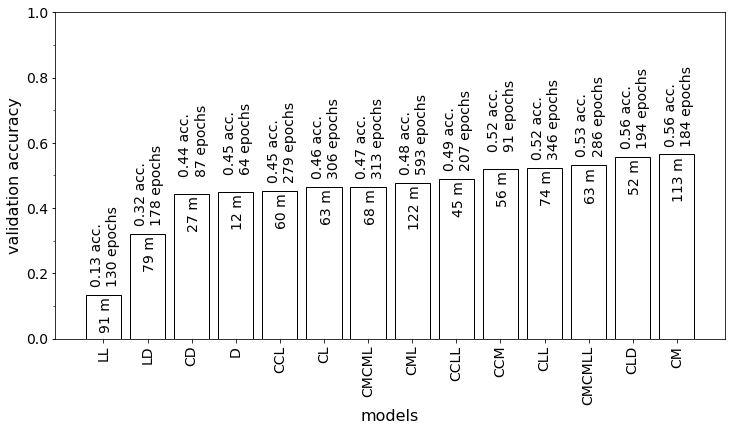
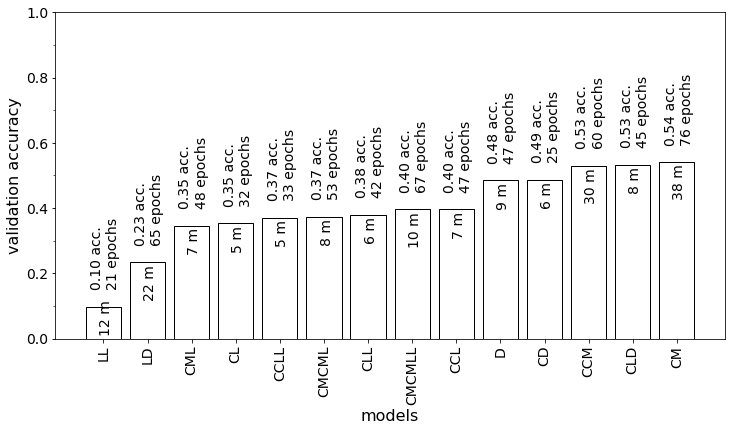
Updates from Overleaf

diff --git a/content/4.0.1-researchonmodels.tex b/content/4.0.1-researchonmodels.tex
@@ -13,7 +13,7 @@ This contrasts with the sampling technique applied in other works, where all the
 
 \levelC{Inputs}
 %one-hot
-The input features of the network for each instance is a 512x256 matrix representing only one block of 512 bytes of a random file of the dataset. Each of the 512 bytes is one-hot encoded, meaning that its value is converted into a vector with 256 elements, with only one of them set to 1, corresponding to the value of the byte, while the others are set to zero. A batch size of 100 was used, with 30 steps per epoch. \todo{remake with 28 after excluding text and unk?}
+The input features of the network for each instance is a 512x256 matrix representing only one block of 512 bytes of a random file of the dataset. Each of the 512 bytes is one-hot encoded, meaning that its value is converted into a vector with 256 elements, with only one of them set to 1, corresponding to the value of the byte, while the others are set to zero. A batch size of 100 was used, with 28 steps per epoch.
 
 %8bits
 % The input features of the network for each instance is a 512x8 matrix representing only one block of 512 bytes of a random file of the dataset. Each of the 512 bytes uses a custom encoding where each of the 8 bits of a byte is represented as -1 or 1, depending whether the bit is 0 or 1. During initial tests, this encoding was compared to three other encodings: one-hot encoding, 8 bits represented as 0 or 1\todo{include citation}, and 8 bits represented as [0,1] and [1,0] \cite{hiester_file_2018}. More research should be done in the future to determine the best of the four, but initial results suggest they have similar impact on the model accuracy. The one-hot encoding has the disadvantage of increasing the input matrix size by a factor of 32.
@@ -25,9 +25,9 @@ The output of the network for a given instance is a vector with a size equal to 
 \levelC{Models}
 The networks under consideration used different combinations of convolutional, max pooling, LSTM, and fully connected layers,
 %loss
-applying categorical crossentropy as the loss function. Binary crossentropy and mean squared error were considered during initial tests, but categorical crossentropy gave faster training times.
+applying categorical cross-entropy as the loss function. Binary cross-entropy and mean squared error were considered during initial tests, but categorical cross-entropy gave faster training times.
 
-Fourteen models participated in this evaluation. One of then is a simple single layer perceptron. Two of them use LSTM layers without convolutional layers, while 3 of them use convolutional layers without LSTM layers. Eight models combine convolutional layers and LSTM layers. Table \ref{tab:models} outline the parameters of the models, which can be analysed in more details in the code repository \todo{repository}. The convolutional layers do not use padding. 
+Fourteen models participated in this evaluation. One of then is a simple single layer perceptron. Two of them use LSTM layers without convolutional layers, while 3 of them use convolutional layers without LSTM layers. Eight models combine convolutional layers and LSTM layers. Table \ref{tab:models} outline the parameters of the models, which can be analysed in more details in the code repository \sloppy\url{http://github.com/atilaromero/randomness-experiments}. The convolutional layers do not use padding. 
 
 \input{content/tables/4.0.1-models.tex}
 
@@ -36,7 +36,7 @@ All the trainings use the Adam \cite{kingma_adam:_2014}
 optimization algorithm to guide backpropagation, which was selected because it performed well in the preliminary results without fine tuning of parameters.
 
 % Constraints
-The models where trained until no further improvement was observed in the last 60 epochs. \todo{60 is much higher than 10, which was used in sections 4.2 and 4.3, leading to difference in accuracy results}
+The models where trained until no further improvement was observed in the last 10 epochs.
 
 \levelC{Results}
 %exp18
@@ -51,24 +51,17 @@ The two models that used LSTM layers without convolutional layers presented a sl
 \noindent
 \begin{figure*}[htb!]
 \centering\includegraphics[width=1.0\textwidth]{content/models.png}
-\caption{\label{fig:models}The bar plot shows the validation accuracy of the considered models. Their training time, in minutes, and the total epochs processed is also indicated. The training was halted when no further improvement was observed for 60 consecutive epochs.)}%
+\caption{\label{fig:models}The bar plot shows the validation accuracy of the considered models. Their training time, in minutes, and the total epochs processed is also indicated. The training was halted when no further improvement was observed for 10 consecutive epochs.}%
 \end{figure*}
 
 
+The validation accuracy values of the remaining models were in the 0.35-0.54 range.
 
-The remaining models after ten minutes already showed signs of being close to their limit.
-Their accuracy results were in the 0.44-0.56 range.
-
-The selected model for further research, identified as ``CLD'', achieved an accuracy of 0.56, almost the same value of the model ``CM'', but in about half the time.
+The selected model for further research, identified as ``CLD'', achieved an accuracy of 0.54, almost the same value of the models ``CM'' and ``CCM'', but in less time.
 
 To check if the two slower models could give better result if executed for a longer period, they were trained for 10 hours. The model identified as ``LD'', which uses a LSTM layer followed by a fully connected layer, was able to achieve 0.494 accuracy, while the other, ``LL'', achieved only 0.153.
-
-
 
 %stagnation in learning with such short times, combined with low final accuracy suggests that the dataset present some patterns that are easily recognizable, while the rest of the dataset present a very hard classification task.
 
 % \levelC{Limitations and threats to validity}
-In this exploratory research, the models were not trained until exhaustion. This was initially done to identify which models would be most promising for future testing, but further attempts to tune layer types, quantity and parameters were insufficient to raise accuracy above the 0.44-0.56 range, which suggests that selection or tuning of models may not be best approach to improve results.
-
-
-
+In this exploratory research, the models were not trained until exhaustion. This was initially done to identify which models would be most promising for future testing, but further attempts to tune layer types, quantity and parameters resulted in accuracy values still very close to 0.54, which suggests that selection or tuning of models may not be best approach to improve results.

diff --git a/content/4.0.2-researchonnumberofclasses.tex b/content/4.0.2-researchonnumberofclasses.tex
@@ -1,17 +1,17 @@
 \levelB{Descriptive research on influence of number of classes}
 \label{sec:numberofclasses}
 \levelC{Objective}
-In the previous section, it was observed that achieving 0.6 accuracy on file fragment classification using 30 classes was a difficult task to the considered models. In other studies results \cite{hiester_file_2018} \cite{sportiello_context-based_2012} \cite{amirani_feature-based_2013} \cite{maslim_distributed_2014} and on initial tests, the achieved accuracy for small number of classes was considerably higher. Hiester \cite{hiester_file_2018}, for instance, achieves 98\% accuracy using four classes.
+In the previous section, it was observed that achieving 0.6 accuracy on file fragment classification using 28 classes was a difficult task to the considered models. In other studies results \cite{hiester_file_2018} \cite{sportiello_context-based_2012} \cite{amirani_feature-based_2013} \cite{maslim_distributed_2014} and on initial tests, the achieved accuracy for small number of classes was considerably higher. Hiester \cite{hiester_file_2018}, for instance, achieves 98\% accuracy using four classes.
 
 This section investigates how the accuracy of the considered models change in relation to the number of classes in the dataset.
 
 
 \levelC{Dataset}
-Several independent models were trained with 2 to 30 \todo{change to 28 classes} extensions from the Govdocs1 dataset. For each number in the range 2 to 30, a random subset of extensions was selected to compose the dataset. Each extension has 200 file samples, half placed in the training dataset and half in the validation dataset. Each dataset was used to train a new model, that should distinguish between the selected subset of extensions in that filtered dataset. This process was repeated five times.
+Several independent models were trained with 2 to 28 extensions from the Govdocs1 dataset. For each number in the range 2 to 28, a random subset of extensions was selected to compose the dataset. Each extension has 200 file samples, half placed in the training dataset and half in the validation dataset. Each dataset was used to train a new model, that should distinguish between the selected subset of extensions in that filtered dataset. This process was repeated five times.
 
 
 
-In addition to this sampling of extensions using different quantity of classes, all 435 combinations of pairs of extensions were compared. Each pair was used to compose a dataset and to train a new model for each one, using the same process described above.
+In addition to this sampling of extensions using different quantity of classes, all 378 combinations of pairs of extensions were compared. Each pair was used to compose a dataset and to train a new model for each one, using the same process described above.
 
 \levelC{Models}
 The same sampling, input, and output details described in section \ref{sec:evalmodels} were used here. The model that gave best results in that section, identified as ``CLD'', was selected to be used.
@@ -24,15 +24,13 @@ This pattern is understandable: as the number of classes grows, the harder the c
 
 This behavior is an important aspect to consider during the evaluation of file fragments studies. As Beebe et al. \cite{beebe_sceadan:_2013} have mentioned, studies that select fewer classes tends to yield higher results. 
 
-Still, with 55\% of samples being misclassified when the number of classes is 30, the question of what are the error sources and how they can be addressed requires attention.
+Still, with 46\% of samples being misclassified when the number of classes is 28, the question of what are the error sources and how they can be addressed requires attention.
 
 \noindent
 \begin{figure*}[htb!]
 \centering\includegraphics[width=1.0\textwidth]{content/nclasses.png}
 \caption{\label{fig:nclasses}Validation accuracy by number of classes}%
 \end{figure*}
-
-\todo[inline]{graph was generated without text and unk classes}
 
 Figure \ref{fig:dual} shows the graph of accuracy of each class when compared individually with each one of the others. Generally, file types with higher entropy tends to have lower minima, with the GIF file type being a notable exception. Most of these files use some form of compression, like image files for example. 
 
@@ -44,7 +42,7 @@ Figure \ref{fig:dual} shows the graph of accuracy of each class when compared in
 \end{figure*}
 
 
-The accuracy obtained after the training of models with pair of classes was used to build a 28x28 matrix \todo{should rebuild with 30?}, using 0.5 in the main diagonal entries. This number was chosen because a pair of indistinguishable classes would have this accuracy in average. Then, a Principal Component Analysis (PCA) \todo{citation} was used to treat this matrix. The result is shown in figures \ref{fig:pca} and \ref{fig:pca2}. Again some file types with high entropy emerge as a promising group, ``dwf'',
+The accuracy obtained after the training of models with pair of classes was used to build a 28x28 matrix, using 0.5 in the main diagonal entries. This number was chosen because a pair of indistinguishable classes would have this accuracy in average. Then, a Principal Component Analysis (PCA) \todo{citation} was used to treat this matrix. The result is shown in figures \ref{fig:pca} and \ref{fig:pca2}. Again some file types with high entropy emerge as a promising group, ``dwf'',
 ``jpg'',
 ``pps'',
 ``ppt'',

diff --git a/content/tables/4.0.1-models.tex b/content/tables/4.0.1-models.tex
@@ -10,26 +10,39 @@ Model  & \multicolumn{3}{l||}{Convolutional layers} & \multicolumn{3}{l||}{Max p
        & output       & window       & stride      & pool    & stride    & channel    & output     & return       & output \\ 
        & size         & size         & length      & size    & length    & first      & size       & sequences    & size   \\ \hline
                                                                                                                               \hline
-D      & \paint       & \paint       &     \paint  & \paint  &  \paint   & \paint     & \paint     & \paint       & 30     \\ \hline
-LD     & \paint       & \paint       &     \paint  & \paint  &  \paint   & \paint     & 32         & no           & 30     \\ \hline
+D      & \paint       & \paint       &     \paint  & \paint  &  \paint   & \paint     & \paint     & \paint       & 28     \\ \hline
+
+LD     & \paint       & \paint       &     \paint  & \paint  &  \paint   & \paint     & 32         & no           & 28     \\ \hline
+
 LL     & \paint       & \paint       &     \paint  & \paint  &  \paint   & \paint     & 32         & yes          & \paint \\ 
-       & \paint       & \paint       &     \paint  & \paint  &  \paint   & \paint     & 32         & no           & \paint \\ \hline
-CD     & 64           & 64           & 8           & \paint  &  \paint   & \paint     & \paint     & \paint       & 30     \\ \hline
-CM     & 30           & 32           & 1           & 481     & 1         & no         &  \paint    & \paint       & \paint \\ \hline
-CCM    & 30           & 32           & 1           &         &           &            & \paint     & \paint       & \paint \\ 
-       & 30           & 2            & 2           & 240     & 1         & no         & \paint     & \paint       & \paint \\ \hline
-CL     & 30           & 32           & 32          & \paint  &  \paint   & \paint     & 30         & no           & \paint \\ \hline
-CML    & 32           & 32           & 32          & 2       & 2         & yes        & 30         & no           & \paint \\ \hline
+       & \paint       & \paint       &     \paint  & \paint  &  \paint   & \paint     & 28         & no           & \paint \\ \hline
+
+CD     & 64           & 64           & 8           & \paint  &  \paint   & \paint     & \paint     & \paint       & 28     \\ \hline
+
+CM     & 28           & 32           & 1           & 481     & 1         & no         &  \paint    & \paint       & \paint \\ \hline
+
+CCM    & 28           & 32           & 1           &         &           &            & \paint     & \paint       & \paint \\ 
+       & 28           & 2            & 2           & 240     & 1         & no         & \paint     & \paint       & \paint \\ \hline
+
+CL     & 28           & 32           & 32          & \paint  &  \paint   & \paint     & 28         & no           & \paint \\ \hline
+
+CML    & 32           & 32           & 32          & 2       & 2         & yes        & 28         & no           & \paint \\ \hline
+
 CLL    & 32           & 32           & 32          & \paint  &  \paint   & \paint     & 64         & yes          & \paint \\ 
-       &              &              &             & \paint  &  \paint   & \paint     & 30         & no           & \paint \\ \hline
-CLD    & 256          & 16           & 16          & \paint  &  \paint   & \paint     & 128        & no           & 30     \\ \hline
+       &              &              &             & \paint  &  \paint   & \paint     & 28         & no           & \paint \\ \hline
+
+CLD    & 256          & 16           & 16          & \paint  &  \paint   & \paint     & 128        & no           & 28     \\ \hline
+
 CCL    & 128          & 8            & 8           & \paint  &  \paint   & \paint     &            &              & \paint \\ 
-       & 64           & 8            & 8           & \paint  &  \paint   & \paint     & 30         & no           & \paint \\ \hline
+       & 64           & 8            & 8           & \paint  &  \paint   & \paint     & 28         & no           & \paint \\ \hline
+
 CCLL   & 128          & 8            & 8           & \paint  &  \paint   & \paint     & 64         & yes          & \paint \\ 
-       & 64           & 8            & 8           & \paint  &  \paint   & \paint     & 30         & no           & \paint \\ \hline
+       & 64           & 8            & 8           & \paint  &  \paint   & \paint     & 28         & no           & \paint \\ \hline
+
 CMCML  & 128          & 8            & 8           & 2       & 2         & yes        &            &              & \paint \\ 
-       & 64           & 8            & 8           & 2       & 2         & yes        & 30         & no           & \paint \\ \hline
+       & 64           & 8            & 8           & 2       & 2         & yes        & 28         & no           & \paint \\ \hline
+
 CMCMLL & 128          & 8            & 8           & 2       & 2         & yes        & 64         & yes          & \paint \\ 
-       & 64           & 8            & 8           & 2       & 2         & yes        & 30         & no           & \paint \\ \hline
+       & 64           & 8            & 8           & 2       & 2         & yes        & 28         & no           & \paint \\ \hline
 \end{tabular}
 \end{table}

diff --git a/content/4.0.3-experimentrandomdata.tex b/content/4.0.3-experimentrandomdata.tex
@@ -3,7 +3,7 @@
 
 In the previous sections, it was observed that the higher the number of classes being considered during the creation of a file fragment classification model, the higher is the error rate of this model. In addition, the comparison of pairs of classes indicated that high entropy data structures may be responsible by some part of those errors.
 
-Prior to conducting experiments to find the major cause of error, a list of conceivable error sources (E1 to E4) was elaborated:
+Prior to conducting experiments related to the cause of error, a list of conceivable error sources (E1 to E4) was elaborated:
 \begin{enumerate}[itemindent=\parindent,label=\textbf{E\arabic*.}]
     \item For some data structure, the model cannot distinguish it from random data. This can happen if the pattern in the data is too complex, beyond the capabilities of the model. It may be the case that in practice no model can perform this distinction or, instead, this may be a limitation of this particular model only. This situation may occur in files that use compression or cryptography, or more generally, any file type with high entropy.
 
@@ -33,13 +33,15 @@ The model training was divided in two passes, depicted in figure \ref{fig:random
 
 \noindent
 \begin{figure*}[htb!]
-\centering\includegraphics[width=1.0\textwidth]{content/random_measure.png}
+\centering\includegraphics[width=0.5\textwidth]{content/random_measure.png}
 \caption{\label{fig:randommeasure}Example of the random measure for the JPG file type. In pass 1, a model is trained to classify the data as ``random'' or ``not random'', achieving 87\% accuracy. In pass 2, another model is trained to do the same task, but the JPG blocks used are those classified as ``not random'' by model 1. As model 2 achieves an accuracy of 99\%, it validates that almost all the blocks classified as ``not random'' by model 1 are indeed not random. Then model 1 can be used to make an upper boundary estimate of the randomness of the dataset.}%
 \end{figure*}
 
-When the model training finishes, if the validation accuracy is above 98\% for a given file type, no further passes are required by that file type, as the model already can distinguish between ``random'' and ``not random'' classes for that particular file type. This will only happen on file types that have almost no random like structures.
+When the model training finishes, if the validation accuracy is above 98\% for a given file type, no further passes are required by that file type, as the model already can distinguish between ``random'' and ``not random'' classes for that particular file type. This will only happen on file types that have almost no random-like structures.
 
-In the second pass, the file type dataset is filtered and only those fragments classified as ``not random'' in the first pass are used in the second pass. The random generator needs no filtering. If in the second pass the accuracy is above 98\%, it means that the pass 1 was successfully selected samples that have almost no random like structures. In that case, the pass 1 model can then used in the original dataset, giving a count of how many fragments are correctly identified as not random.
+In the second pass, the file type dataset is filtered and only those fragments classified as ``not random'' in the first pass are used in the second pass. The random generator does not require similar filtering. If in the second pass the accuracy is above 98\%, it means that the pass 1 was successfully selected samples that have almost no random like structures. In that case, the pass 1 model can then used in the original dataset, giving a count of how many fragments are correctly identified as not random.
+
+The complexity of using two passes to measure the false positive rate of the model of the first pass is necessary because a direct comparison using the sample labels is insufficient for validation. From the labels, it is possible to know if the sample came from the Govdocs1 dataset or from the random generator. But, to perform validation, it would be necessary to have previous knowledge of which of the samples from the Govdocs1 dataset should be classified as ``random'' and which should be classified as ``not random''. This piece of information is unknown until the model of the first pass is trained.
 
 \levelC{Results}
 For some file types, training achieved an accuracy higher than 98\% on the first pass. These are the file types where a model should have no difficulty finding patterns. For the remaining file types, all achieved an accuracy higher than 98\% on the second pass, which is fortunate, as this avoids the need to use further passes and  simplifies calculations.

diff --git a/content/4-experiments.tex b/content/4-experiments.tex
@@ -1,5 +1,5 @@
 % \levelC{Dataset}
-This study uses the Govdocs1 dataset \cite{garfinkel_bringing_2009}, which was fully downloaded and its files were grouped by extension. This dataset has files with 63 different extensions. The 33 extensions with less than 200 files were discarded. From the remaining 30 extensions, listed in table \ref{tab:govdocs1}, 200 files of each were randomly selected, 100 to use in the training dataset and 100 to use in the validation dataset.
+This study uses the Govdocs1 dataset \cite{garfinkel_bringing_2009}, which was fully downloaded and its files were grouped by extension. This dataset has files with 63 different extensions. The 33 extensions with less than 200 files were discarded. The  ``text'' and ``unk'' extensions were discarded because files with these extensions use multiple formats and they do not correspond to a single file type. From the remaining 28 extensions, listed in table \ref{tab:govdocs1}, 200 files of each were randomly selected, 100 to use in the training dataset and 100 to use in the validation dataset.
 
 \input{content/tables/4.0.1-govdocs.tex}
 
@@ -8,18 +8,16 @@ The experiments did not take advantage of GPU acceleration and were  conducted o
 
 
 % \levelC{Software}
-The main softwares and frameworks used to build the experiments were Python 3.6, Jupyter notebook, Tensorflow 1.14.0, Keras 2.2.4-tf, and Fedora Linux 27.
+The main software and frameworks used to build the experiments were Python 3.6, Jupyter notebook, Tensorflow 1.14.0, Keras 2.2.4-tf, and Fedora Linux 27.
 
 % repository
-The source code for the experiments is available at \url{http://github.com/atilaromero/ML}.
-\todo[inline]{create a cleaner repository just for the paper}
+The source code for the experiments is available at \sloppy\url{http://github.com/atilaromero/randomness-experiments}.
 
 Section \ref{sec:evalmodels} evaluates some alternative models in the file fragment classification task. The expectation was to identify the most promising models for improvement. Instead, an apparent limit was found on how far these models could be improved. 
 
 Section \ref{sec:numberofclasses} describes how does the accuracy of neural network models change relative to the number of classes. It was observed that a high accuracy in the file fragment classification task could be achieved only when the number of classes was small. Also, when compared with each other, file types with high entropy data showed the lowest accuracy values.
 
-Section \ref{sec:exprandom} investigates the hypothesis that some part of these errors may be explained by the inability of the models to distinguish high entropy data from random data. The portion of data that could be identified as not random was higher than expected. While some of errors could have the explanation mentioned in the hypothesis, it could only explain about 1/3 of the observed errors (16.5\% out of 55
-\%) \todo{revise numbers}.
+Section \ref{sec:exprandom} investigates the hypothesis that some part of these errors may be explained by the inability of the models to distinguish high entropy data from random data. The portion of data that could be identified as not random was higher than expected. While some of errors could have the explanation mentioned in the hypothesis, it could only explain about 1/3 of the observed errors (16.5\% out of 46\%) \todo{revise numbers}.
 
 \input{content/4.0.1-researchonmodels.tex}
 

diff --git a/content/5-conclusion.tex b/content/5-conclusion.tex
@@ -1,8 +1,8 @@
-The portion of data that could be identified as not random was higher than expected. While some of errors could be explained by the misinterpretation of high entropy data as random data, this could only explain about 1/3 of the observed errors (16.5\% out of 55\%) \todo{revise numbers}.
+The portion of data that could be identified as not random was higher than expected. While some of errors could be explained by the misinterpretation of high entropy data as random data, this could only explain about 1/3 of the observed errors (16.5\% out of 46\%).
 
 This raises the question of whether the remmaing 2/3 of errors could be explained by different file types using the same data structures. This error source comes from the practice of using the extension of the file as the class to each of its parts. An analogy with speech recognition would be to label each syllable of a spoken word using the word as its label and then try to predict the whole word using only a syllable.
 
-Unfortunately, for the file fragmentation task the potential labels for smaller parts may be less obvious than it is for speech recognition. The best case scenario would be if the neural network itself could choose the labelling. But evaluating those predicted labels using labels of its own choosing would introduce bias, as it could prefer to create only easy labels. Saying that all file types are composed of ``data'' is correct, but it is unhelpful.
+Unfortunately, for the file fragmentation task the potential labels for smaller parts may be less obvious than it is for speech recognition. The best case scenario would be if the neural network itself could choose the labelling. But evaluating those predicted labels using labels of its own choosing would introduce bias, as it could prefer to create only easy labels. The statement that all file types are composed of ``data'' is correct, but it is unhelpful.
 
 
 % Among the examined networks, while many of them satisfy the requirements imposed and could potentially be used by a forensic examiner to create a model to a new file type, the networks that showed the best results are those that use convolutional layers to split and process the input and then use LSTM layers to analyse the series of outputs produced by the convolutional layers. This gives a direct answer to the first research question, ``How does different neural network models compare to each other in terms of training performance and quality of results?''.

diff --git a/content/tables/4.0.1-govdocs.tex b/content/tables/4.0.1-govdocs.tex
@@ -20,7 +20,7 @@ csv       & 18360           & 6843009      \\ \hline
 gz        & 13725           & 17748905     \\ \hline
 log       & 9976            & 8467819      \\ \hline
 eps       & 5191            & 5756138      \\ \hline
-unk       & 5186            & 2983922      \\ \hline
+% unk       & 5186            & 2983922      \\ \hline
 png       & 4125            & 2207489      \\ \hline
 swf       & 3476            & 3798321      \\ \hline
 dbase3    & 2601            & 38972        \\ \hline
@@ -28,7 +28,7 @@ pps       & 1619            & 7432480      \\ \hline
 rtf       & 1125            & 958239       \\ \hline
 kml       & 993             & 309422       \\ \hline
 kmz       & 943             & 549462       \\ \hline
-text      & 839             & 1527118      \\ \hline
+% text      & 839             & 1527118      \\ \hline
 hlp       & 659             & 8692         \\ \hline
 f         & 602             & 94543        \\ \hline
 sql       & 462             & 244634       \\ \hline

diff --git a/content/5.1-futurework.tex b/content/5.1-futurework.tex
@@ -1,4 +1,4 @@
- For future researches on file fragment classification, the hypothesis that the remaining 2/3 of the observed errors are caused by similar data structures used by multiple files should be explored. Also,  the seek for a procedure to automatically label inner data structures of files may be a promising course of action. 
+ For future researches on file fragment classification, the hypothesis that the remaining 2/3 of the observed errors are caused by similar data structures used by multiple files should be explored. Also, the search for a procedure to automatically label inner data structures of files may be a promising course of action. 
 
 
 

diff --git a/article.tex b/article.tex
@@ -13,7 +13,7 @@
 \RequirePackage{amsmath}
 \RequirePackage{amssymb}
 \RequirePackage{amsfonts}
-\RequirePackage{url}
+\RequirePackage[hyphens]{url}
 \RequirePackage[table]{xcolor}
 \RequirePackage{array}
 \RequirePackage{longtable}
